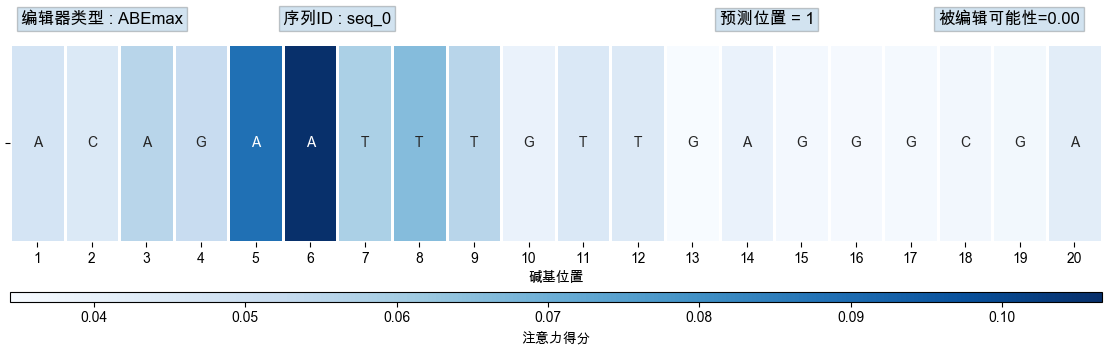
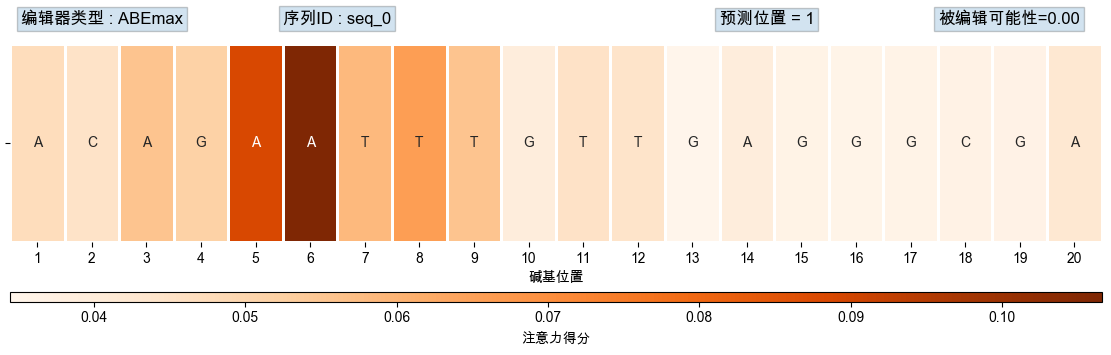
change

diff --git a/demo/templates/hello.html b/demo/templates/hello.html
@@ -3,24 +3,47 @@
   <head>
     <title>输入序列实现单碱基编辑结果预测</title>
   </head>
+
   <body>
     <h1>输入序列实现单碱基编辑结果预测</h1>
     <form action="/" method="POST">
       <label for="teditor">编辑技术:</label>
-      <input type="text" name="teditor" id="teditor" required /><br />
+      <select name="teditor" id="teditor">
+        <option value="ABEmax">ABEmax(A->G)</option>
+        <option value="ABE8e">ABE8e(A->G)</option>
+        <option value="BE4max">BE4max(C->T)</option>
+        <option value="Target-AID">Target-AID(C-T)</option>
+      </select>
+      <br />
+      <!-- <input type="text" name="teditor" id="teditor" required /><br /> -->
 
       <label for="sample_df">要预测的序列:</label>
-      <input type="text" name="sample_df" id="sample_df" required /><br />
+      <input
+        type="text"
+        name="sample_df"
+        id="sample_df"
+        value="ACAGAATTTGTTGAGGGCGA"
+        style="width: 200px"
+        required
+      /><br />
 
       <label for="pos">要预测编辑的序列位置:</label>
-      <input type="number" name="pos" id="pos" required /><br />
+      <select name="pos" id="pos">
+        <option value="1">1</option>
+        <option value="2">2</option>
+        <option value="3">3</option>
+        <option value="20">20</option>
+      </select>
+      <br />
+      <!-- <input type="number" name="pos" id="pos" required /><br /> -->
 
       <label for="pred_option">预测方式:</label>
       <select name="pred_option" id="pred_option" required>
-        <option value="mean">mean</option>
-        <option value="median">median</option>
-        <option value="max">max</option></select
-      ><br />
+        <option value="mean">取均值</option>
+        <option value="median">取中间值</option>
+        <option value="max">取最大值</option>
+      </select>
+      <br />
 
       <input type="submit" value="预测" />
     </form>

diff --git a/demo/templates/index.html b/demo/templates/index.html
@@ -14,10 +14,10 @@
       <br />
       <label for="teditor">编辑技术</label>
       <select name="teditor" id="teditor">
-        <option value="ABEmax">ABEmax</option>
-        <option value="ABE8e">ABE8e</option>
-        <option value="BE4max">BE4max</option>
-        <option value="Target-AID">Target-AID</option>
+        <option value="ABEmax">ABEmax(A->G)</option>
+        <option value="ABE8e">ABE8e(A->G)</option>
+        <option value="BE4max">BE4max(C->T)</option>
+        <option value="Target-AID">Target-AID(C-T)</option>
       </select>
       <br />
       <label for="win_left">左侧窗口大小</label>

diff --git a/perbase/predict_model.py b/perbase/predict_model.py
@@ -340,6 +340,13 @@ class BEDICT_CriscasModel:
 
     def _highlight_attn_scores(self, df, pred_option, model_name, cmap = 'YlOrRd', fig_dir=None):
         """高亮模型注意力分数"""
+
+
+        if model_name == 'ABEmax' and "ABE8e":
+            cmap = 'Oranges'
+        elif model_name == "BE4max" and 'Target-AID':
+            cmap = 'Blues'
+
         # we index these axes from 0 subscript
         fig, ax = plt.subplots(figsize=(11,3), 
                                nrows=1, 
@@ -385,8 +392,7 @@ class BEDICT_CriscasModel:
         # plt.subplots_adjust(top=0.9)  # 调整顶部边距
 
         # cmap = 'YlGnBu_r'
-        # cmap = 'Oranges'
-        cmap = 'Blues'
+
         # g = sns.heatmap(attn_scores, cmap=cmap,annot=base_letters,fmt="",linewidths=.5, cbar_kws=cbar_kws, ax=ax)        
         # g = sns.heatmap(attn_scores, cmap=cmap,annot=base_letters,fmt="",linewidths=.5, cbar_kws=False, ax=ax)    
         sns.heatmap(attn_scores, cmap=cmap, annot=base_letters, fmt="", linewidths=1, cbar=False, ax=ax)    
@@ -399,7 +405,7 @@ class BEDICT_CriscasModel:
                 fontsize=12) # 在图上添加文字，表示编辑概率。
         ax.text(5, -0.1 ,r'序列ID : {}'.format(seq_id), bbox={ 'alpha': 0.2, 'pad': 3, },
                     fontsize=12) # 图上添加文字，表示序列id。
-        # ax.text(0.2, -0.1 ,r'编辑器类型 : {}'.format('ABE8e'), bbox={ 'alpha': 0.2, 'pad': 3, },fontsize=12) # 图上添加文字，表示序列id。
+        
         ax.text(0.2, -0.1 ,r'编辑器类型 : {}'.format(model_name), bbox={ 'alpha': 0.2, 'pad': 3, },fontsize=12) # 图上添加文字，表示序列id。
         # 创建一个新的 axes 用于颜色条
         from mpl_toolkits.axes_grid1 import make_axes_locatable
